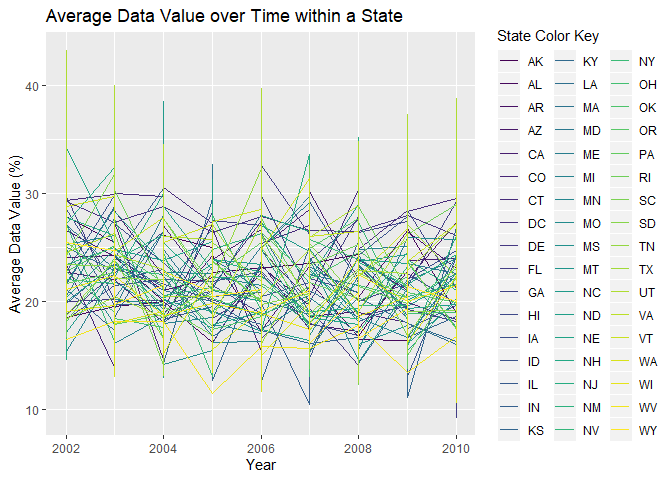
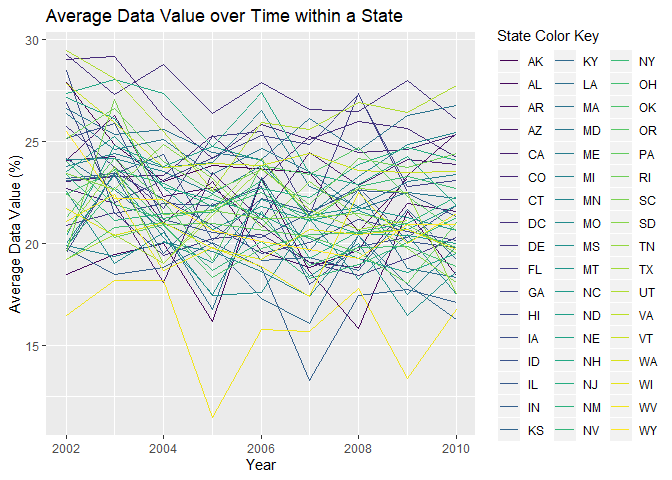
Fixed the vertical lines in the spaghetti plot and a typo.

diff --git a/p8105_hw3_mrc2229_2.md b/p8105_hw3_mrc2229_2.md
@@ -45,7 +45,7 @@ items_per_aisle_plot + coord_flip()
 
 ![](p8105_hw3_mrc2229_2_files/figure-markdown_github/unnamed-chunk-2-1.png)
 
-Table of most popular items in "baking ingrediant", "dog food care", and "packaged vegatables fruits"
+Table of most popular items in "baking ingredient", "dog food care", and "packaged vegatables fruits"
 -----------------------------------------------------------------------------------------------------
 
 ``` r
@@ -166,12 +166,11 @@ An "Excellent" response only dataset and speghetti plot.
 ``` r
 excellent_data = brfss_data %>%
   filter (response == "Excellent") %>%
-  group_by(year,locationdesc) %>%
-  mutate(ave_data_value = mean(data_value, na.rm = TRUE)) %>%
-  ungroup(locationdesc) %>%
+  group_by(year, locationabbr) %>%
+  mutate(ave_data_value = mean(data_value)) %>%
   select(year, locationabbr, ave_data_value) %>%
   distinct() %>%
-  drop_na()%>%
+  drop_na() %>%
   ggplot(aes(x=year,y=ave_data_value))+
   geom_line(aes(group=locationabbr, color=locationabbr))+
   scale_color_viridis(
